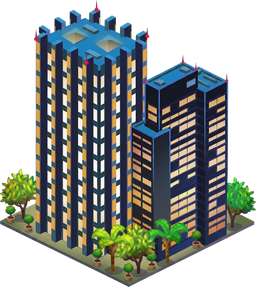
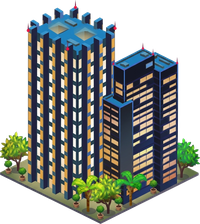
Revert "Buildings fill their block: the ruler was wrong, not the art"
This reverts commit eaccb827e716a5be870f024725122e98880aedeb.

Changed region(s): [[0.87, 0.5312, 0.9, 0.5938], [0.24, 0.4688, 0.27, 0.5], [0.12, 0.5938, 0.15, 0.625]]

diff --git a/tools/buildings_derive.py b/tools/buildings_derive.py
@@ -37,21 +37,8 @@ ROOT = os.path.dirname(os.path.dirname(os.path.abspath(__file__)))
 SRC = os.path.join(ROOT, "source-assets", "buildings")
 OUT = os.path.join(ROOT, "game", "assets", "buildings")
 
-# THE CITY BLOCK IS 256x128, and this is what a building has to fill.
-#
-# This was 200, "against a 229x118 apron tile" - and that was the wrong ruler.
-# 229x118 is the APRON tile, which is what aircraft pads sit on; the road grid
-# in the city is a different size entirely. Measured off the background by
-# autocorrelating the road markings over the tarmac at (0..1700, 1400..2250),
-# the periods are 256 in x and 128 in y, and a lattice with that period anchored
-# on any building plot runs straight down the middle of every road. All 42 plots
-# sit on it, mutually consistent to under a pixel.
-#
-# At 200 every building was 28px short of its block ON EACH SIDE, so the grass
-# stopped and a band of bare tarmac ran between it and the kerb. That gap is the
-# thing that read as the buildings not fitting - not the art, and not the plots,
-# both of which were fine. 256 puts the plate edge on the road edge.
-TARGET_WIDTH = 256
+# Against a 229x118 apron tile. Matches the three that already fit a plot.
+TARGET_WIDTH = 200
 
 # Only for buildings that should break from the common footprint.
 #
@@ -94,7 +81,7 @@ def main() -> None:
         img = img.resize((w, h), Image.LANCZOS)
         img.save(os.path.join(OUT, "%s_2x.png" % name[:-4]))
         print("  %-24s %dx%d" % (name[:-4], w, h))
-    print("\n%d buildings (the city block is 256x128)" % len(names))
+    print("\n%d buildings (apron tile is 229x118 for comparison)" % len(names))
 
 
 if __name__ == "__main__":
